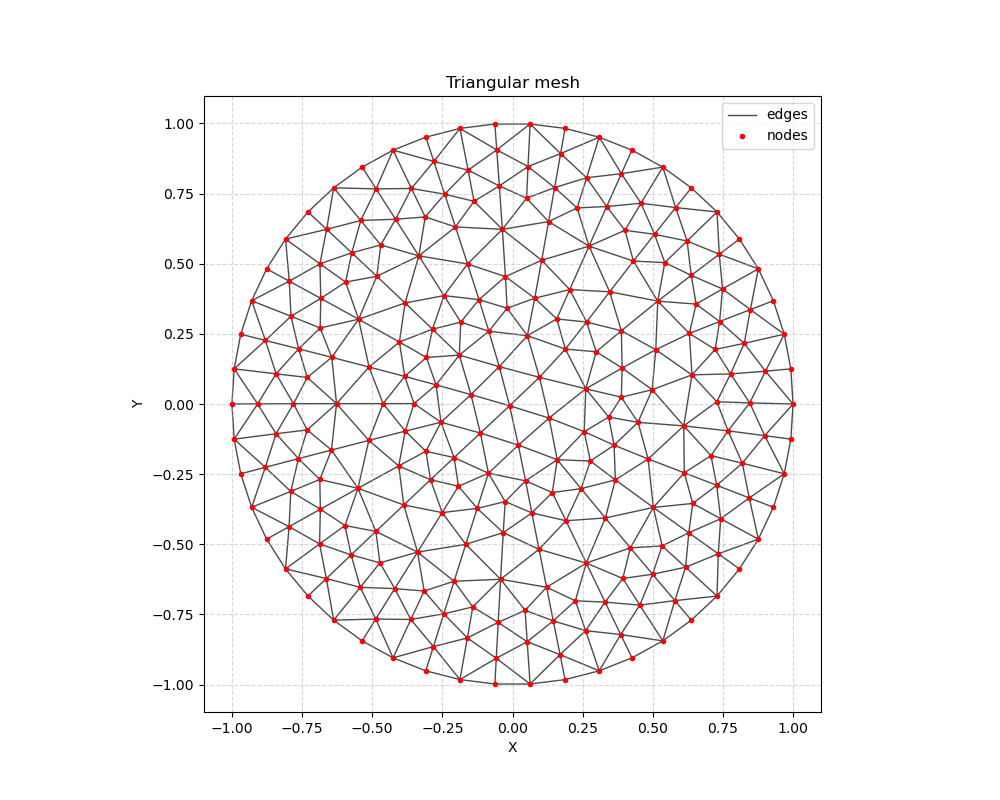
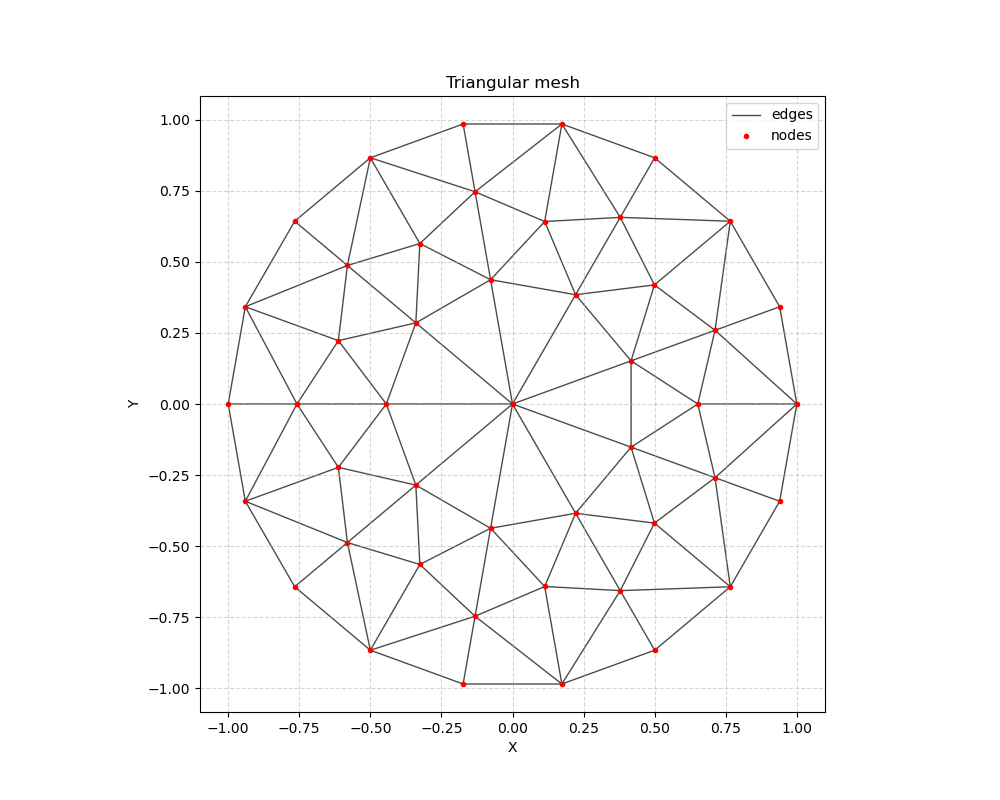
mesher update

diff --git a/MES2D/Point.cpp b/MES2D/Point.cpp
@@ -1,0 +1,80 @@
+#include "Point.hpp"
+
+std::ostream& operator<<(std::ostream& os, const Position& pos) {
+    os << pos.m_x << " " << pos.m_y;
+    return os;
+}
+Position operator*(double alpha, const Position& pos) {
+    return pos * alpha; 
+}
+
+//================ POSITION CLASS =====================
+
+Position::Position(double x, double y) : m_x(x), m_y(y) {}
+
+
+double Position::x() const {return m_x;}
+double Position::y() const {return m_y;}
+
+double Position::dot(const Position vec) const{
+    return m_x*vec.m_x + m_y*vec.m_y;
+}
+
+double Position::len2() const{
+    return m_x*m_x+m_y*m_y;
+}
+double Position::len() const{
+    return sqrt(len2());
+}
+
+Position Position::operator*(const double alpha) const{
+    return {alpha*m_x, alpha*m_y};
+}
+
+Position Position::operator+(const Position &other) const{
+    return {m_x+other.m_x, m_y+other.m_y};
+}
+
+Position Position::operator-(const Position &other) const{
+    return {m_x-other.m_x, m_y-other.m_y};
+}
+
+Position Position::operator/(const double alhpa) const{
+    return {m_x/alhpa, m_y/alhpa};
+}
+
+Position& Position::operator/=(const double alpha)
+{
+    m_x/=alpha;
+    m_y/=alpha;
+
+    return *this;
+}
+Position& Position::operator+=(const double alpha)
+{
+    m_x+=alpha;
+    m_y+=alpha;
+
+    return *this;
+}
+Position& Position::operator+=(const Position &other)
+{
+    m_x+=other.m_x;
+    m_y+=other.m_y;
+
+    return *this;
+}
+Position& Position::operator*=(const double alpha)
+{
+    m_x*=alpha;
+    m_y*=alpha;
+
+    return *this;
+}
+Position& Position::operator-=(const double alpha)
+{
+    m_x-=alpha;
+    m_y-=alpha;
+
+    return *this;
+}

diff --git a/MES2D/Grid.cpp b/MES2D/Grid.cpp
@@ -73,27 +73,24 @@ void Grid2D::triangular()
         Position B = oldRing[idx];
         Position C = oldRing[(idx + 1) % size];
 
-        double dx1 = B.x - A.x;
-        double dy1 = B.y - A.y;
-        double len1 = sqrt(dx1*dx1 + dy1*dy1);
-        double nx1 = -dy1 / len1;
-        double ny1 = dx1 / len1;
+        Position BA = B-A;
+        Position normal1 = {-BA.y(), BA.x()};
+        normal1/=normal1.len();
 
-        double dx2 = C.x - B.x;
-        double dy2 = C.y - B.y;
-        double len2 = sqrt(dx2*dx2 + dy2*dy2);
-        double nx2 = -dy2 / len2;
-        double ny2 = dx2 / len2;
+        Position CB = C-B;
+        Position normal2 = {-CB.y(), CB.x()};
+        normal2/=normal2.len();
 
-        double nx = nx1 + nx2;
-        double ny = ny1 + ny2;
-        double len = sqrt(nx*nx + ny*ny);
 
-        double dot = nx1 * nx2 + ny1 * ny2;
+        Position normalB = normal1 + normal2;
+        normalB/=normalB.len();
+
+
+        double dot = normal1.dot(normal2);
         double scale = m_geoInit.h*sqrt(2.0/(1.0+dot));
     
 
-        return {nx/len * scale, ny/len * scale};
+        return normalB*scale;
     };
 
     while(true)
@@ -105,18 +102,20 @@ void Grid2D::triangular()
         if (oldRing.size()<3 || ++iter>10000)
             break;
 
-        double cx = 0, cy = 0;
+        Position avg={0.0, 0.0};
         for (const auto& p : oldRing) { 
-            cx += p.x; 
-            cy += p.y; 
+            avg+=p; 
         }
-        cx /= oldRing.size();
-        cy /= oldRing.size();
+
+        avg /=oldRing.size();
 
         double max_dist2 = 0.0;
-        for (const auto& p : oldRing) {
-            double d2 = (p.x - cx)*(p.x - cx) + (p.y - cy)*(p.y - cy);
-            if (d2 > max_dist2) max_dist2 = d2;
+        for (const auto& p : oldRing) 
+        {
+            Position diff = p-avg;
+            double dist2 = diff.len2();
+
+            if (dist2 > max_dist2) max_dist2 = dist2;
         }
 
 
@@ -126,11 +125,12 @@ void Grid2D::triangular()
             int oldRingStartIdx = m_pointsList.size() - oldRing.size();
             
 
-            m_pointsList.push_back({cx, cy});
+            m_pointsList.push_back(avg);
             int centerIdx = m_pointsList.size() - 1;
 
 
-            for (int idx = 0; idx < oldRing.size(); idx++) {
+            for (int idx = 0; idx < oldRing.size(); idx++) 
+            {
                 int globBL = oldRingStartIdx + idx;
                 int globBR = oldRingStartIdx + ((idx + 1) % oldRing.size());
                 m_trianglesList.push_back({globBL, globBR, centerIdx});
@@ -145,26 +145,24 @@ void Grid2D::triangular()
 
 
         Position n = calculate_normals(0);
-        Position newPoint = {oldRing[0].x + n.x, oldRing[0].y + n.y};
+        Position newPoint = oldRing[0] + n;
         newRing.push_back(newPoint);
         mapping[0]=0;
 
         for (int idx=1; idx<oldRing.size(); idx++)
         {
             n = calculate_normals(idx);
-            newPoint = {oldRing[idx].x + n.x, oldRing[idx].y + n.y};
+            newPoint = oldRing[idx] + n;
 
             //sewwing logic
-            double dist2 = (newPoint.x - newRing.back().x)*(newPoint.x - newRing.back().x) + (newPoint.y - newRing.back().y)*(newPoint.y - newRing.back().y);
-            
+            double dist2 = (newPoint - newRing.back()).len2();
             if (dist2>=m_geoInit.toleranceRadius*m_geoInit.toleranceRadius)
                 newRing.push_back(newPoint);
             mapping[idx] = newRing.size()-1;
         }
 
-        double distLastFirst2=(newRing.front().x-newRing.back().x)*(newRing.front().x-newRing.back().x) + (newRing.front().y-newRing.back().y)*(newRing.front().y-newRing.back().y);
-
-        if (newRing.size()>1 && distLastFirst2<m_geoInit.toleranceRadius*m_geoInit.toleranceRadius)
+        double dist2LastFirst = (newRing.front()-newRing.back()).len2();
+        if (newRing.size()>1 && dist2LastFirst<m_geoInit.toleranceRadius*m_geoInit.toleranceRadius)
         {   
             newRing.pop_back();
             for (int i=0; i<mapping.size(); i++)
@@ -267,12 +265,10 @@ void Grid2D::relaxGrid()
             for (const auto& neighbour_idx : m_neighboursList[idx])
             {
                 Position neighbour = m_pointsList[neighbour_idx];
-                newPoint.x+=neighbour.x;
-                newPoint.y+=neighbour.y;
+                newPoint+=neighbour;
             }
 
-            newPoint.x=m_geoInit.alpha*newPoint.x/neighboursNb + (1-m_geoInit.alpha)*m_pointsList[idx].x;
-            newPoint.y=m_geoInit.alpha*newPoint.y/neighboursNb + (1-m_geoInit.alpha)*m_pointsList[idx].y;
+            newPoint = m_geoInit.alpha*newPoint/neighboursNb + (1.0-m_geoInit.alpha)*m_pointsList[idx];
 
             buffor[idx]=newPoint;
         }
@@ -334,7 +330,7 @@ void Grid2D::savePointsList()
 
     for (const auto& point : m_pointsList)
     {
-        point_lists_file<<point.x<<" "<<point.y<<"\n";
+        point_lists_file<<point<<"\n";
     }
 
 }

diff --git a/MES2D/Point.hpp b/MES2D/Point.hpp
@@ -1,0 +1,35 @@
+#ifndef POINT_HPP
+#define POINT_HPP
+#include <iostream>
+#include <cmath>
+class Position{
+    public:
+        Position(double x, double y);
+
+        double dot(const Position vec) const;
+        double len2() const;
+        double len() const;
+        Position operator*(const double alpha) const;
+        Position operator+(const Position &other) const;
+        Position operator-(const Position &other) const;
+        Position operator/(const double alpha) const;
+
+        Position& operator/=(const double alpha);
+        Position& operator+=(const double alpha);
+        Position& operator+=(const Position &other);
+        Position& operator*=(const double alpha);
+        Position& operator-=(const double alpha);
+
+        friend std::ostream& operator<<(std::ostream& os, const Position& pos);
+        friend Position operator*(double alpha, const Position& pos);
+
+        //getters
+        double x() const;
+        double y() const;
+
+    private:
+        double m_x;
+        double m_y;
+};
+
+#endif

diff --git a/MES2D/Grid.hpp b/MES2D/Grid.hpp
@@ -8,12 +8,8 @@
 #include <functional>
 #include <cmath>
 #include <set>
+#include "Point.hpp"
 
-struct Position{
-    double x, y;
-
-
-};
 
 
 struct Triangle{

diff --git a/MES2D/main.cpp b/MES2D/main.cpp
@@ -5,9 +5,9 @@
 int main()
 {
     GeometryParameters geoparam{
-        50,
-        2*sin(M_PI/50),
-        2*0.7*sin(M_PI/50),
+        18,
+        2*sin(M_PI/18),
+        2*0.3*sin(M_PI/18),
         100
     };
 